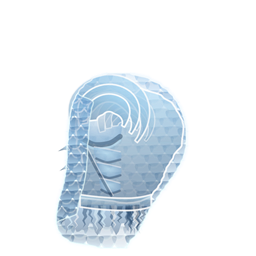
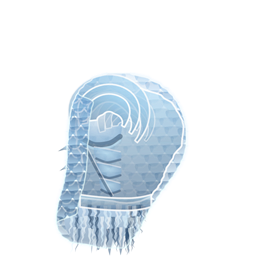
Call of Valor: the fur runs the whole lower body
The user's correction, and the new checkpoint - better than every version so
far. F_FUR_BOT 0.888 -> 0.980, so the skirt reaches the bottom of the body
sprite instead of stopping at the upper thigh. Its width still comes from the
body's own half-side per row, so it narrows with the legs rather than hanging
square.

EXTENDING IT BROKE THE STRANDS, and the reason generalises: everything sized as
a fraction of the band's own HEIGHT silently doubled, because the band's height
doubled - 0.138 of the body to 0.230. Strand widths went from ~3px to ~6px and
the fur turned to rope. Nothing was edited; the numbers simply meant something
else.

Strand size now comes off the PITCH - band width divided by strand count -
which is what actually decides whether strands fill the width or freckle it,
and which does not move when the band grows taller. A dimension expressed as a
fraction of a region scales with that region, which is right for anything that
should grow with it and wrong for everything that should not.

AND ONE RUN OF FULL-HEIGHT STRANDS IS SPAGHETTI, NOT FUR. At 29px tall and 3px
wide a strand is a noodle. Fur of any depth is layered, so this is too: three
overlapping tiers, each rooted lower than the one above, each offset by half a
pitch so they interleave rather than stack, and the lower ones drawn last so
they lap over like shingles. Tone still alternates, now on (strand + tier) so
the interleaving does not line matching tones up with each other.
[…]

Changed region(s): [[0.25, 0.7812, 0.5938, 1.0]]

diff --git a/Mods/Dovahkiin/CHANGELOG.md b/Mods/Dovahkiin/CHANGELOG.md
@@ -1,5 +1,34 @@
 # CHANGELOG
 
+## Call of Valor: the fur runs the whole lower body (2026-07-31)
+
+The user's correction: the fur should cover the whole lower part, down to the extremities.
+`$F_FUR_BOT` 0.888 → 0.980, so the skirt now reaches the bottom of the body sprite instead of
+stopping around the upper thigh. Its width still comes from the body's own half-side per row, so
+it narrows with the legs rather than hanging square.
+
+### Extending it broke the strands, and the reason is worth keeping
+
+**Everything sized as a fraction of the band's own height silently doubled**, because the band's
+height doubled — 0.138 of the body to 0.230. Strand widths went from ~3px to ~6px and the fur
+turned to rope. *A dimension expressed as a fraction of a region scales with that region, which is
+right for anything that should grow with it and wrong for everything that should not.*
+
+**Strand size now comes off the PITCH** — the band's width divided by the strand count — which is
+what actually decides whether strands fill the width or freckle it, and which does not move when
+the band grows taller.
+
+**And one run of full-height strands is spaghetti, not fur.** At 29px tall and 3px wide a strand
+is a noodle. Real fur of any depth is layered, so this is too: **three overlapping tiers**, each
+rooted lower than the one above, each offset by half a pitch so they interleave rather than stack,
+and the lower ones drawn last so they lap over the tier above exactly as shingles do. Tone still
+alternates, now on `(strand + tier)` so the interleaving does not line up matching tones.
+
+A dead pre-tier span block was removed rather than left sitting above the loop that replaced it —
+code that looks live and is not is exactly what misleads a later session.
+
+---
+
 ## Call of Valor: the fur becomes zigzag strands, and the scales are cut out of it (2026-07-31)
 
 The user's instruction, and the first half of it is the part that mattered: **take the scale field
